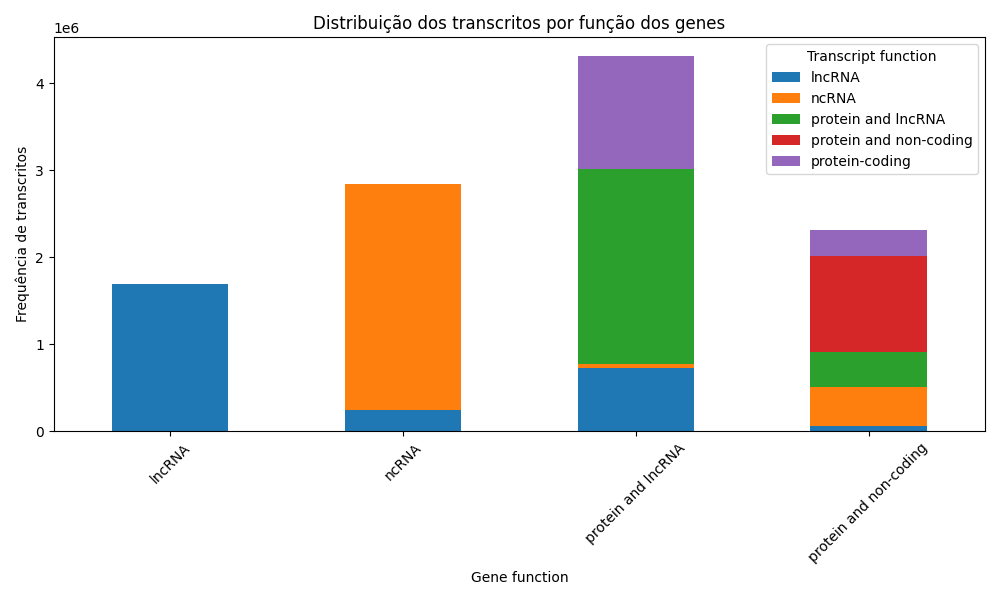
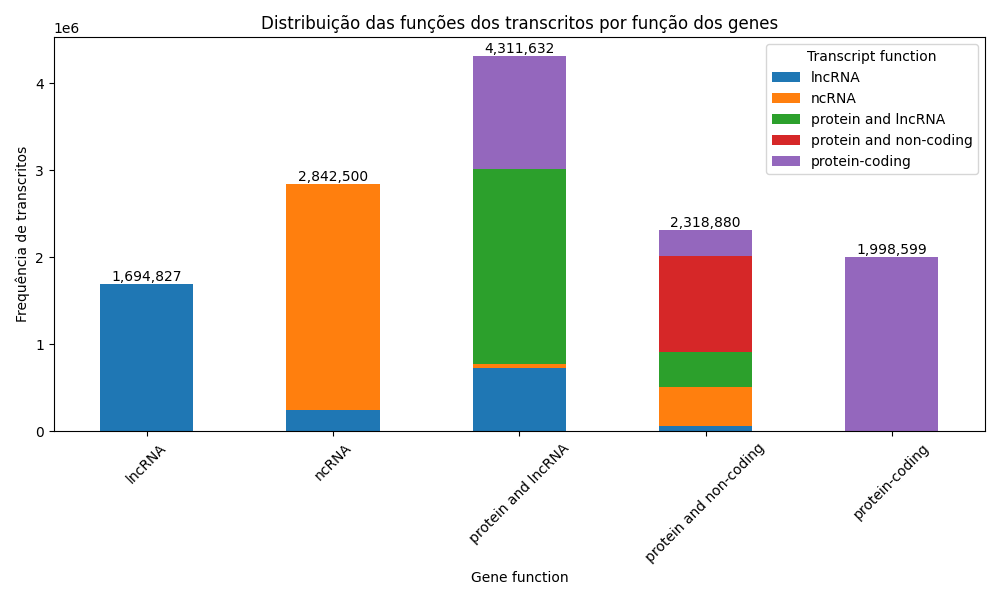
update plots

diff --git a/scripts/panRNAome/panRNAomeAnalysis.py b/scripts/panRNAome/panRNAomeAnalysis.py
@@ -30,30 +30,36 @@ print(f'Número de transcritos por funçao do gene: {transcripts_per_gene_functi
 # Histograma de número de transcritos por gene
 plt.figure(figsize=(14, 6))
 plt.subplot(1, 2, 1)
-#sns.histplot(transcripts_per_gene, bins=range(0, transcripts_per_gene.max() + 10, 10), kde=True)
-sns.histplot(transcripts_per_gene, bins=50, kde=True)  # Ajustando os bins para 50
+sns.histplot(transcripts_per_gene, bins=range(0, transcripts_per_gene.max() + 10, 10), kde=False)
+#sns.histplot(transcripts_per_gene, bins=50, kde=True)  # Ajustando os bins para 50
 plt.title('Distribuição do número de transcritos por gene')
 plt.xlabel('Número de transcritos')
 plt.ylabel('Frequência')
 #plt.xscale('log') 
+plt.xticks([3, 30, 100, 300, 500, 700, 900])
+plt.xticks(rotation=45, fontsize = 'x-small')
 
 # Histograma de número de transcritos por função do gene
-plt.subplot(1, 2, 2)
-colors = sns.color_palette('husl', len(transcripts_per_gene_function))
+##plt.subplot(1, 2, 2)
+##colors = sns.color_palette('husl', len(transcripts_per_gene_function))
 
 #for i, (gene_function, count) in enumerate(transcripts_per_gene_function.items()):
     #sns.histplot([count], bins=range(0, transcripts_per_gene_function.max() + 10, 10), color=colors[i], label=gene_function, kde=True)
     #sns.histplot([count], bins=50, color=colors[i], label=gene_function, kde=True)  # Ajustando os bins para 50
 
-for gene_function, count in transcripts_per_gene_function.items():
+##for gene_function, count in transcripts_per_gene_function.items():
     #sns.histplot([count], bins=50, color=colors.pop(), label=gene_function, kde=True)
-    sns.histplot(data=data[data['Gene Function'] == gene_function], x='Gene', bins=50, color=colors.pop(), label=gene_function, kde=True)
-
+    ##sns.histplot(data=data[data['Gene Function'] == gene_function], x='Gene Function', bins=range(0, transcripts_per_gene_function.max() + 10, 10), color=colors.pop(), label=gene_function, kde=True)
+plt.subplot(1, 2, 2)
+bx = sns.barplot(x=transcripts_per_gene_function.index, y=transcripts_per_gene_function.values, palette='husl')
 plt.title('Distribuição do número de transcritos por função do gene')
-plt.xlabel('Número de transcritos')
-plt.ylabel('Frequência')
+plt.xlabel('Função do gene')
+plt.ylabel('Transcritos')
+plt.xticks(rotation=45)
 #plt.xscale('log')
-plt.legend(title='Função do gene', bbox_to_anchor=(1.05, 1), loc='upper left')
+#plt.legend(title='Função do gene', bbox_to_anchor=(1.05, 1), loc='upper left')
+for index, value in enumerate(transcripts_per_gene_function.values):
+    bx.text(index, value, f'{value:,}', ha='center', va='bottom')
 plt.tight_layout()
 plt.savefig('transcripts_distribution.png')
 plt.clf()  # Limpar a figura atual
@@ -136,18 +142,23 @@ plt.tight_layout()
 plt.savefig('transcript_function_by_genotype.png')
 plt.clf()  # Limpar a figura atual
 
-# 7) Nos genes classificados como “ncRNA”, “lncRNA”, “protein and non-coding” e “protein and lncRNA” como é a distribuição dos transcritos? 
-# Tem transcritos ncRNA junto com lncRNAs? São apenas lncRNAs juntos? Tem transcritos “protein” e “lncRNA” juntos?
-
-genes_interesse = data[data['Gene Function'].isin(ncRNA_categories)]
+# 7) Nos genes como é a distribuição dos transcritos? 
+# Tem transcritos ncRNA junto com lncRNAs? São apenas lncRNAs juntos? Tem transcritos "protein" e "lncRNA" juntos?
+#genes_interesse = data[data['Gene Function'].isin(ncRNA_categories)]
+all_categories = ['ncRNA', 'lncRNA', 'protein and non-coding', 'protein and lncRNA', 'protein-coding']
+genes_interesse = data[data['Gene Function'].isin(all_categories)]
 transcript_function_by_gene_function = genes_interesse.groupby(['Gene Function', 'Transcript Function']).size().unstack(fill_value=0)
 
 fig, ax = plt.subplots(figsize=(10, 6))
 transcript_function_by_gene_function.plot(kind='bar', stacked=True, ax=ax)
-ax.set_title('Distribuição dos transcritos por função dos genes')
+ax.set_title('Distribuição das funções dos transcritos por função dos genes')
 ax.set_xlabel('Gene function')
 ax.set_ylabel('Frequência de transcritos')
 plt.xticks(rotation=45)
+
+for index, value in enumerate(transcripts_per_gene_function.values):
+    ax.text(index, value, f'{value:,}', ha='center', va='bottom')
+
 plt.tight_layout()
 plt.legend(title='Transcript function')
 #plt.show()
